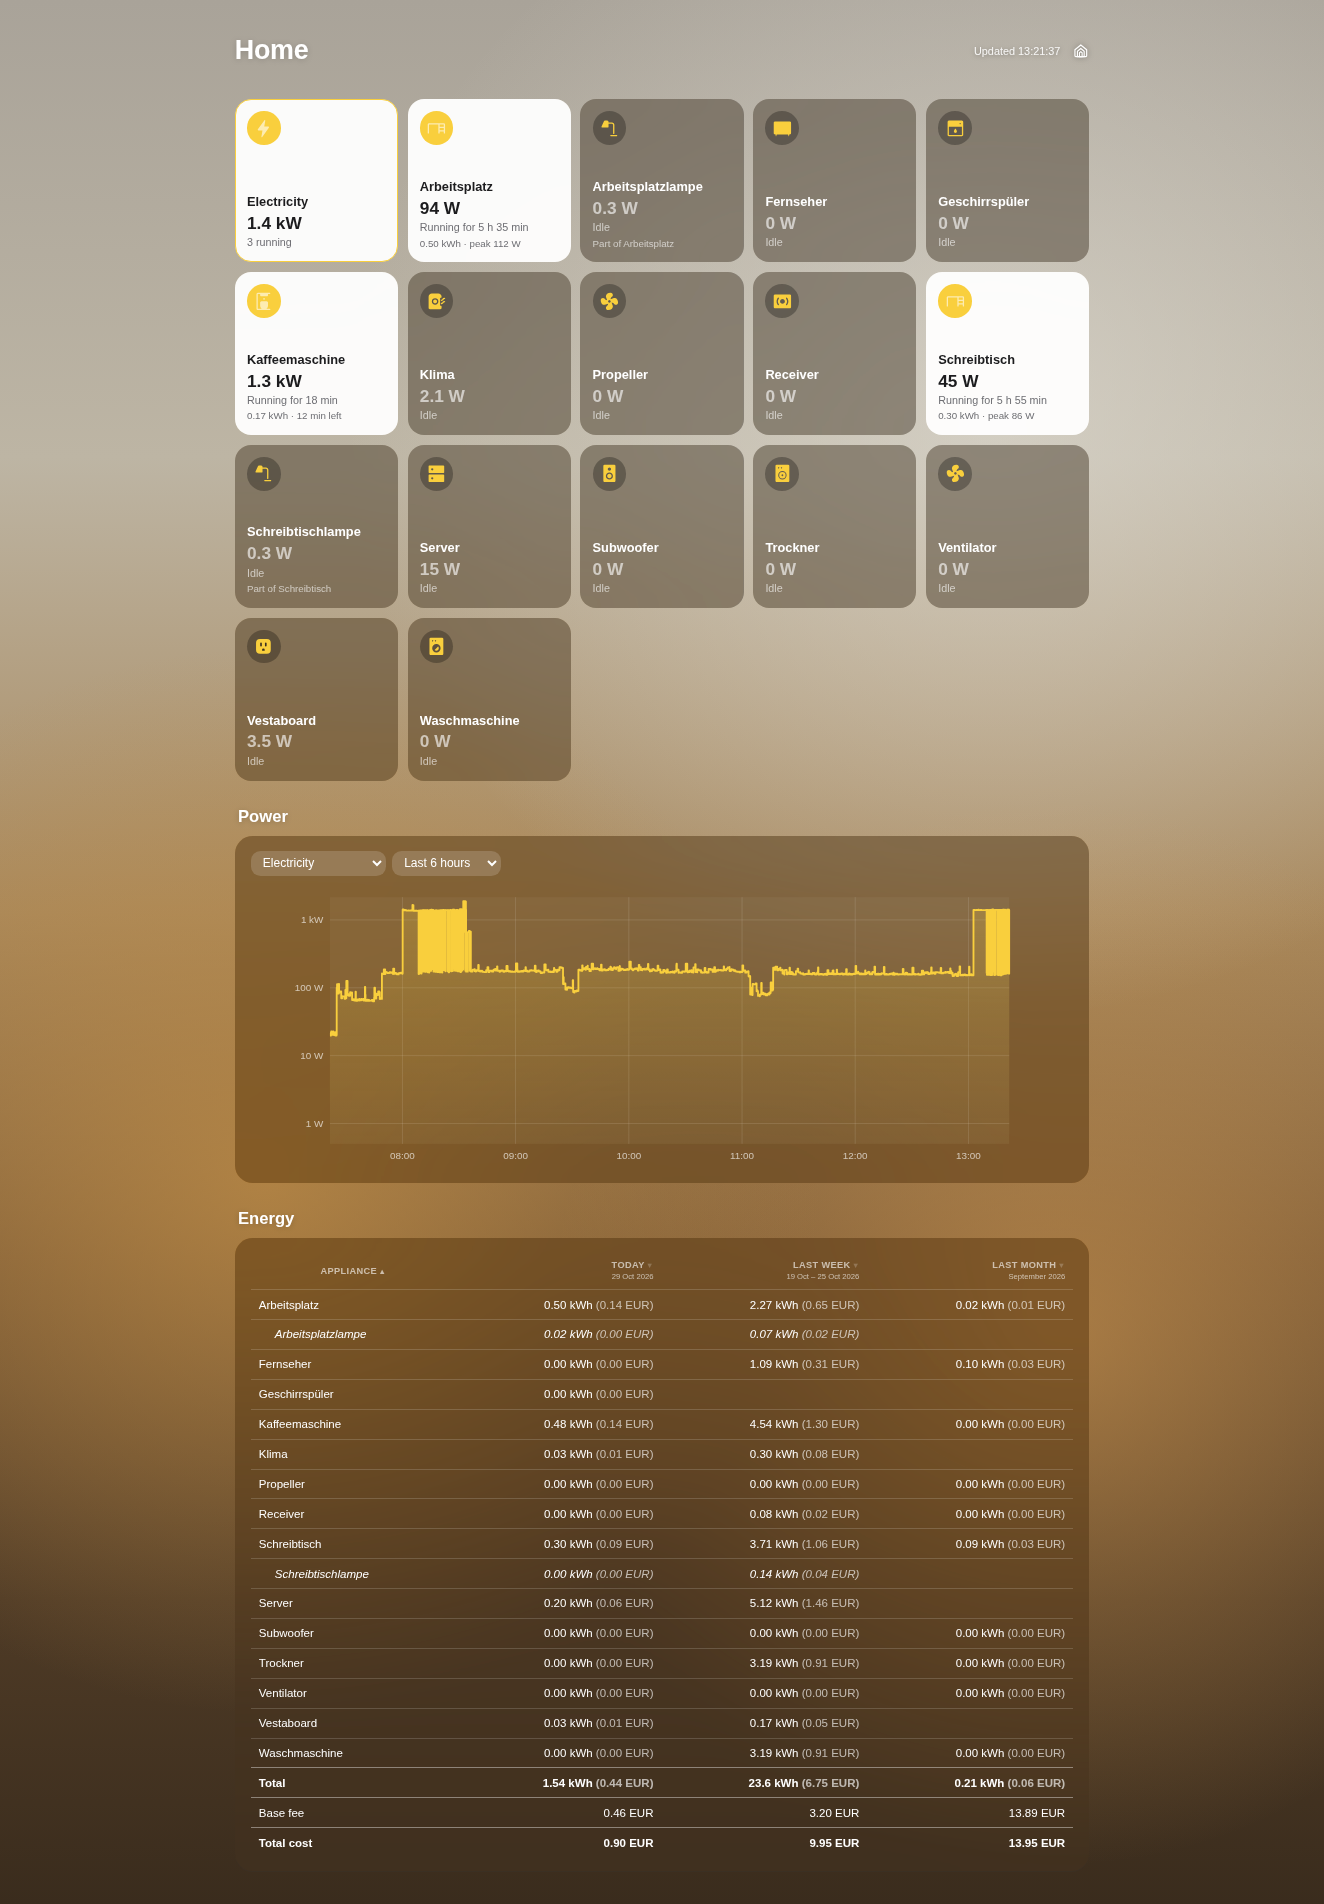
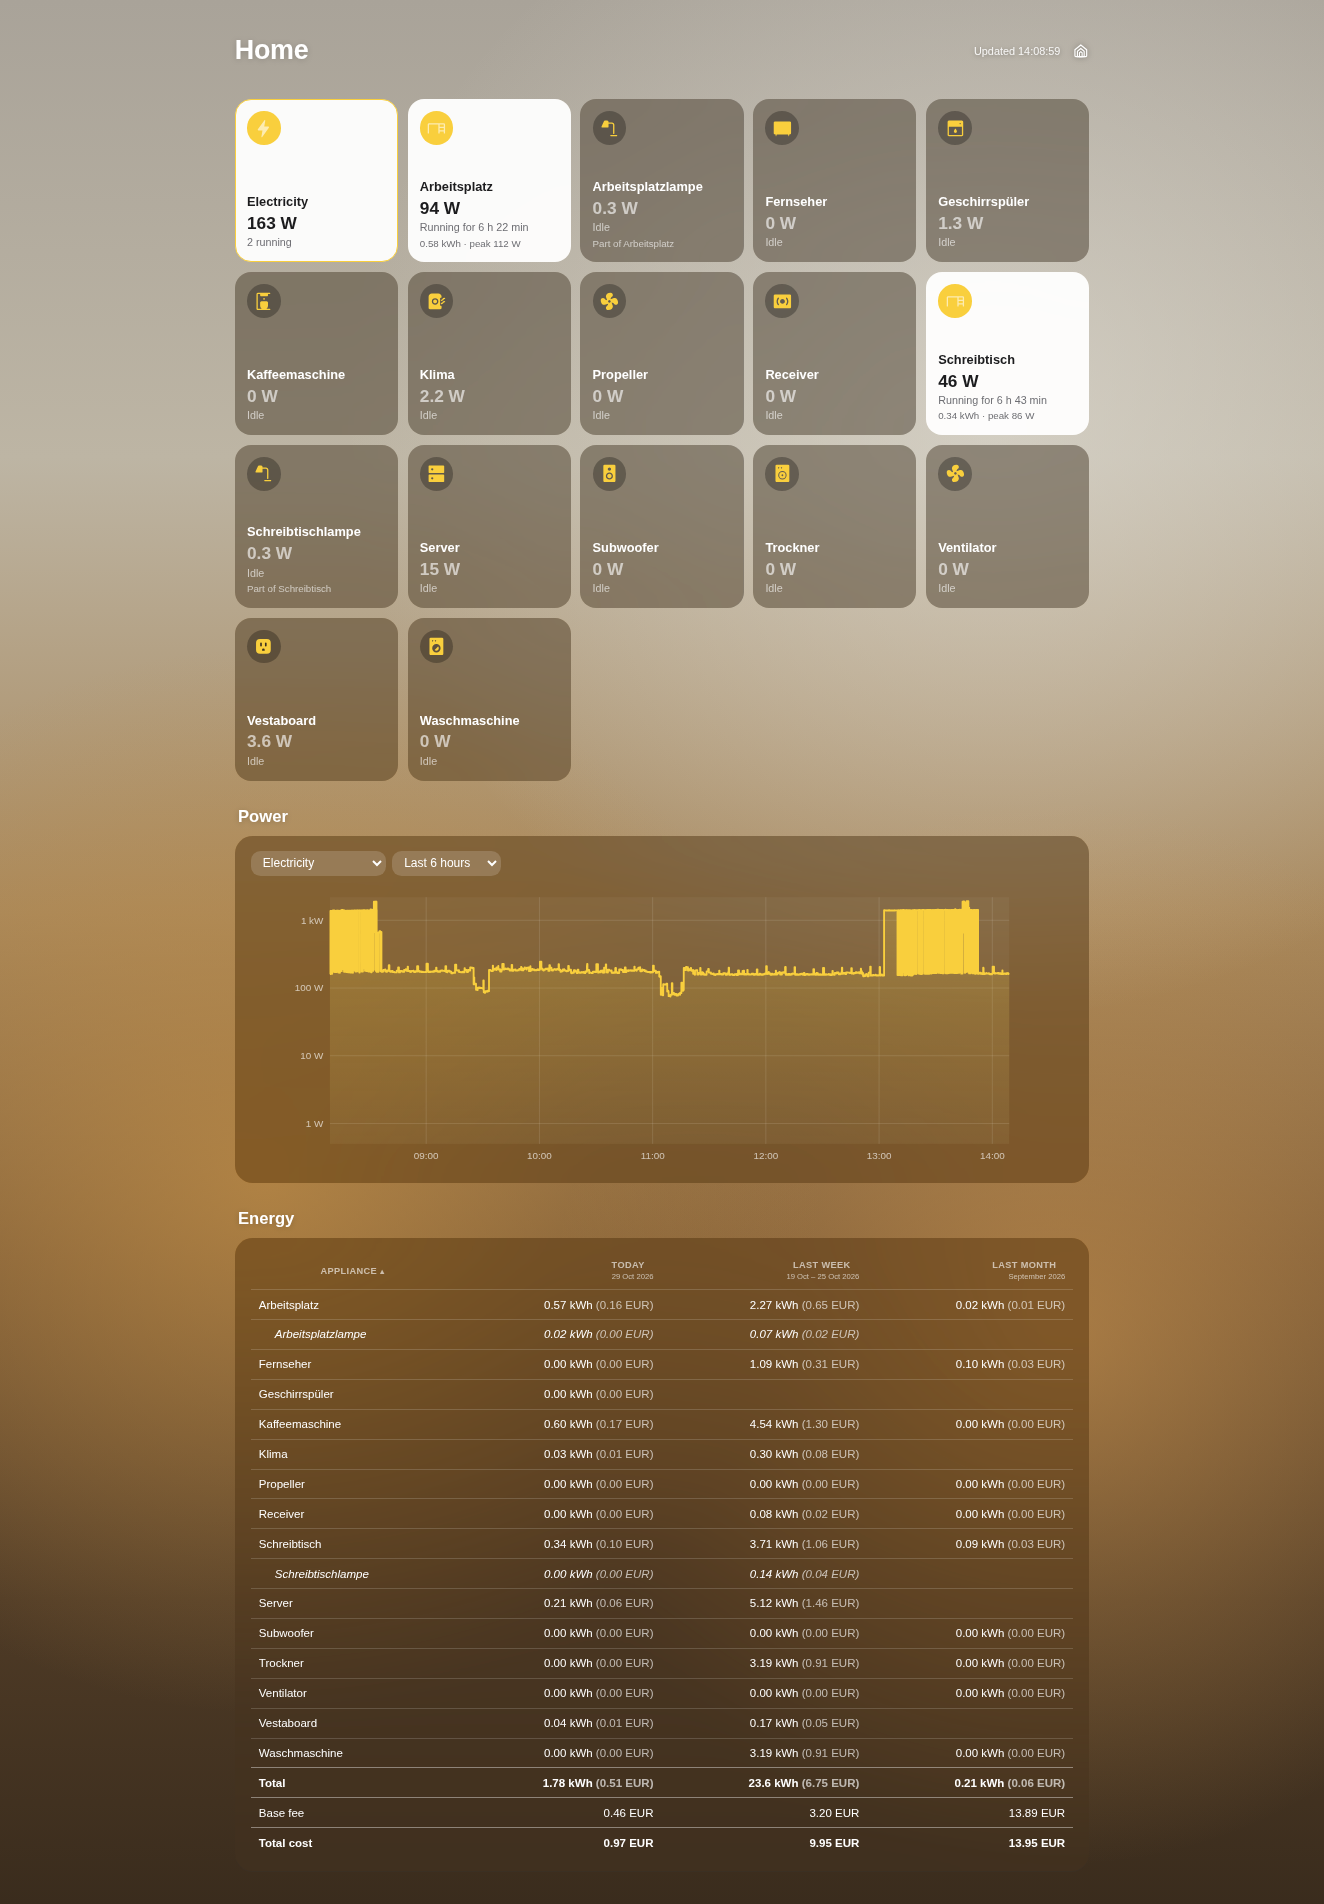
Statistics: the sort arrow only on the column sorted by; new dashboard screenshots
Claude-Session: https://claude.ai/code/session_01FXXeyGX9nkbXjdAycGNCsJ

diff --git a/homebridge-ui/public/shared.js b/homebridge-ui/public/shared.js
@@ -182,9 +182,7 @@
   /** The column headers that sort, and the cost after each value. */
   const TABLE_CSS = `
     th.om-sort { cursor: pointer; user-select: none; white-space: nowrap; }
-    th.om-sort .om-arrow { display: inline-block; width: 1em; margin-left: .2em; opacity: .35; font-size: .8em; }
-    th.om-sort[aria-sort] .om-arrow { opacity: 1; }
-    th.om-sort:hover .om-arrow { opacity: .8; }
+    th.om-sort .om-arrow { display: inline-block; width: 1em; margin-left: .2em; font-size: .8em; }
     td .om-cost { opacity: .65; white-space: nowrap; }
     tfoot tr.om-fee td { font-weight: normal; }`;
 
@@ -360,8 +358,8 @@
     const fill = () => {
       for (const { th, column, arrow } of headers) {
         const on = sort.column === column;
-        // Faint, the way a first click sorts.
-        arrow.textContent = on ? (sort.descending ? '▼' : '▲') : (column > 0 ? '▼' : '▲');
+        // Only on the column sorted by.
+        arrow.textContent = on ? (sort.descending ? '▼' : '▲') : '';
         if (on) {
           th.setAttribute('aria-sort', sort.descending ? 'descending' : 'ascending');
         } else {
